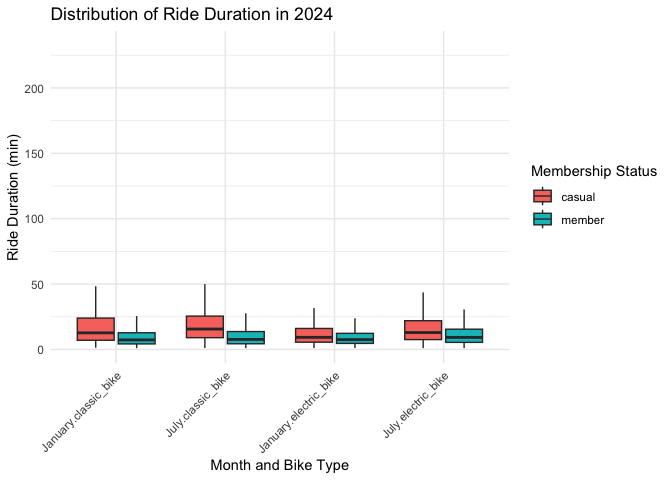
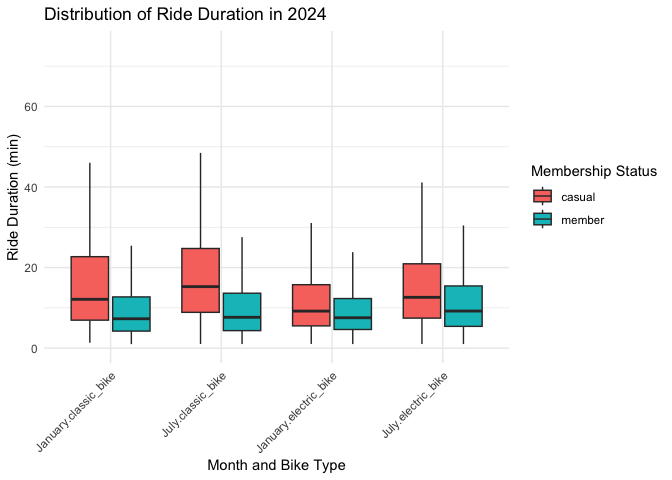
last commit

diff --git a/p8105_hw3_nh2796.md b/p8105_hw3_nh2796.md
@@ -561,8 +561,18 @@ ggplot(citi_data_2024, aes(x = interaction(month, rideable_type), y = duration, 
        x = "Month and Bike Type",
        y = "Ride Duration (min)",
        fill = "Membership Status") +
+  scale_y_continuous(limits = c(0, 75)) +
   theme_minimal() +
   theme(axis.text.x = element_text(angle = 45, hjust = 1))
 ```
 
+    ## Warning: Removed 381 rows containing non-finite outside the scale range
+    ## (`stat_boxplot()`).
+
 ![](p8105_hw3_nh2796_files/figure-gfm/unnamed-chunk-19-1.png)<!-- -->
+From the box plot that I created showing the distribution of ride
+duration in 2024, it is clear that the median ride duration for the
+classic bike in both months of 2024 had more variability for casual
+riders. The members had a lot less variability in ride duration accross
+the board. The median duration for the members was also very consistent
+across the different bike types for all of the months presented.
